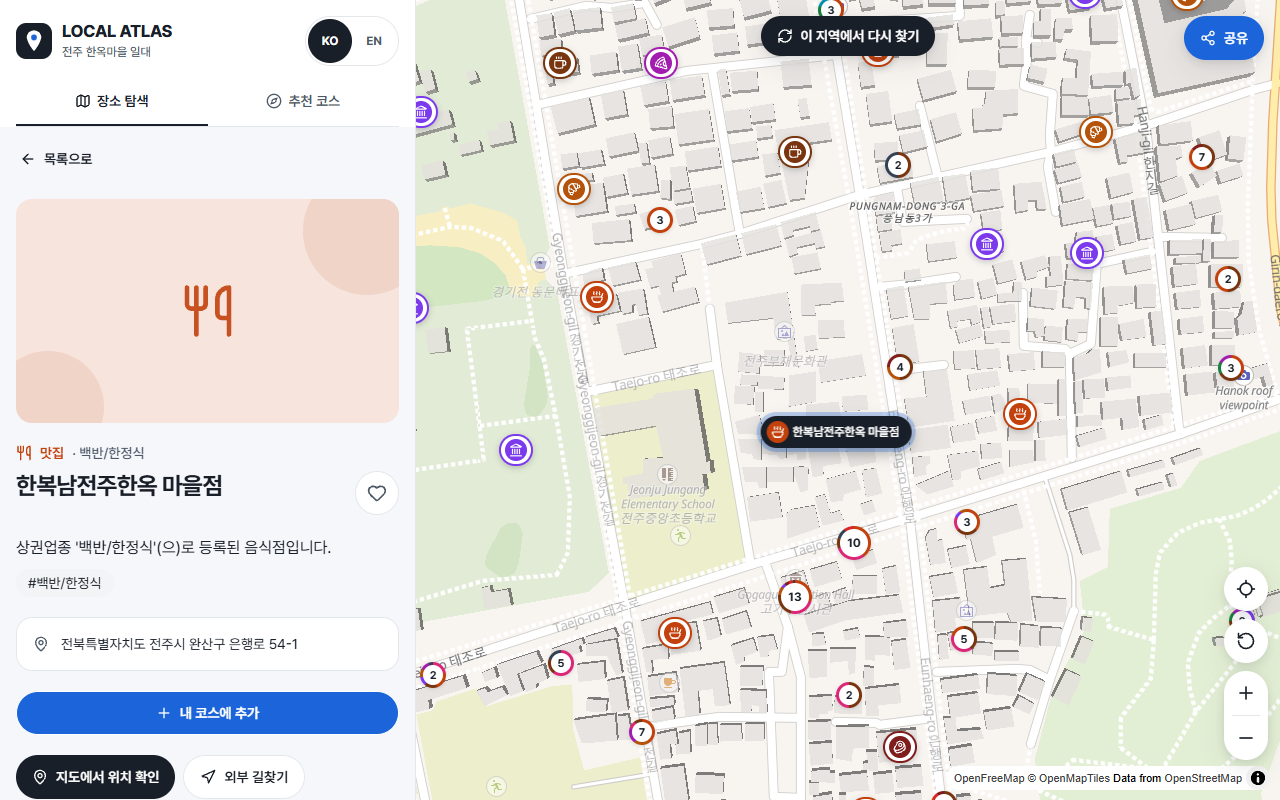
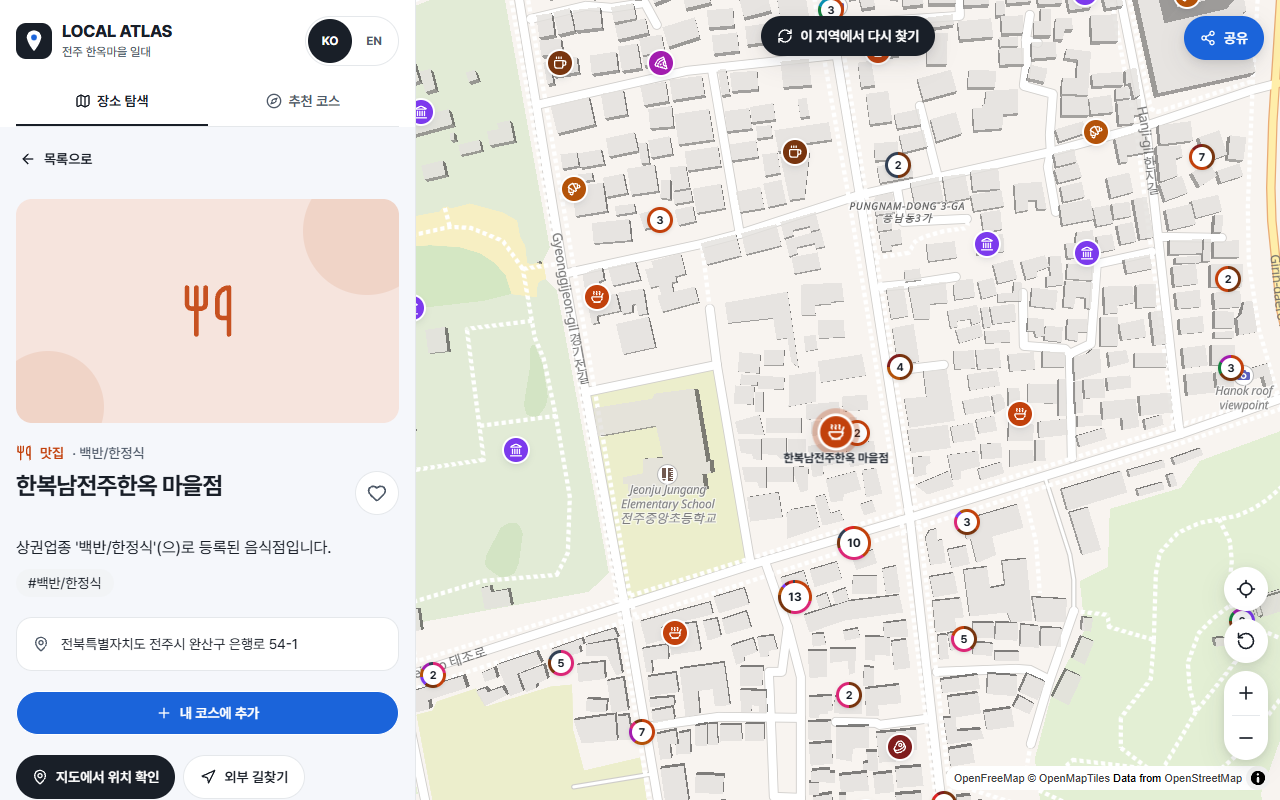
style: POI 핀을 단색 원형 배지로 다듬기
- 흰 알약+색 테두리 이중 구조 → 단색 원형 배지 + 흰 아이콘(stroke 2.25) + 2px 흰 테두리 + 2단 부드러운 그림자
- 이름 라벨은 배지 아래 흰 외곽선 글자로(지도를 덜 가리고, 라벨이 붙어도 핀 중심=좌표 유지)
- 호버는 탄성 있게 확대, 선택은 1.32배 + 같은 색 후광, 코스 번호 핀도 같은 스타일
- 터치 영역은 ::after 로 확장 유지

diff --git a/app/globals.css b/app/globals.css
@@ -95,50 +95,75 @@ body {
 }
 
 /* ── 지도 마커: 카테고리 아이콘 필 + 클러스터 ─────────────────────── */
+/*
+ * 핀: 단색 원형 배지 + 흰 아이콘 + 얇은 흰 테두리 + 부드러운 그림자 (지도 앱 스타일).
+ * 버튼의 중심이 좌표이고, 이름 라벨은 배지 아래에 흰 외곽선 글자로 떠 있어 지도를 덜 가립니다.
+ */
 .atlas-pin {
   position: relative;
-  display: inline-flex;
-  align-items: center;
-  gap: 0.25rem;
-  height: 2rem;
-  padding: 0 0.25rem;
-  border-radius: 9999px;
-  border: 2px solid var(--marker-color, #444);
-  background: #fff;
-  color: var(--color-ink);
-  box-shadow: 0 2px 6px rgba(25, 31, 40, 0.22);
+  display: grid;
+  place-items: center;
+  width: 1.75rem;
+  height: 1.75rem;
+  padding: 0;
+  border: 0;
+  background: transparent;
   cursor: pointer;
-  font: 600 0.75rem/1 var(--font-sans);
-  white-space: nowrap;
-  transition: transform 0.12s ease, box-shadow 0.12s ease;
+  font: 700 0.6875rem/1 var(--font-sans);
 }
-.atlas-pin::after { content: ""; position: absolute; inset: -6px; border-radius: 9999px; }
+.atlas-pin::after { content: ""; position: absolute; inset: -8px; border-radius: 9999px; } /* 터치 영역 확장 */
 .atlas-pin__icon {
   display: grid;
   place-items: center;
-  width: 1.375rem;
-  height: 1.375rem;
+  width: 1.5rem;
+  height: 1.5rem;
   border-radius: 9999px;
   background: var(--marker-color, #444);
   color: #fff;
   font-size: 0.75rem;
-  font-weight: 700;
+  font-weight: 800;
+  letter-spacing: -0.02em;
+  box-shadow: 0 0 0 2px #fff, 0 1px 2px rgba(15, 23, 42, 0.18), 0 3px 8px rgba(15, 23, 42, 0.16);
+  transition: transform 0.16s cubic-bezier(0.34, 1.56, 0.64, 1), box-shadow 0.16s ease;
 }
-.atlas-pin__label { display: none; max-width: 8.5rem; overflow: hidden; text-overflow: ellipsis; padding-right: 0.375rem; }
+.atlas-pin__icon svg { width: 0.875rem; height: 0.875rem; stroke-width: 2.25; }
+.atlas-pin__label {
+  display: none;
+  position: absolute;
+  top: calc(100% + 1px);
+  left: 50%;
+  transform: translateX(-50%);
+  max-width: 9rem;
+  overflow: hidden;
+  text-overflow: ellipsis;
+  white-space: nowrap;
+  color: var(--color-ink);
+  font-size: 0.6875rem;
+  font-weight: 700;
+  letter-spacing: -0.01em;
+  pointer-events: none;
+  text-shadow: 0 0 2px #fff, 0 0 2px #fff, 0 0 3px #fff, 0 0 4px #fff;
+}
 .atlas-map[data-labels="on"] .atlas-pin__label,
 .atlas-pin--selected .atlas-pin__label,
-.atlas-pin--numbered .atlas-pin__label { display: inline; }
-.atlas-pin:hover { transform: translateY(-2px); box-shadow: 0 4px 10px rgba(25, 31, 40, 0.28); z-index: 4; }
-.atlas-pin:focus-visible { outline: 3px solid var(--color-accent); outline-offset: 2px; }
-.atlas-pin--numbered .atlas-pin__icon { width: 1.5rem; height: 1.5rem; font-size: 0.8125rem; }
-.atlas-pin--selected {
-  z-index: 6;
-  background: var(--color-primary);
-  border-color: var(--color-primary);
-  color: #fff;
-  transform: translateY(-2px) scale(1.08);
-  box-shadow: 0 0 0 4px rgba(27, 100, 218, 0.28), 0 6px 14px rgba(25, 31, 40, 0.35);
+.atlas-pin--numbered .atlas-pin__label { display: block; }
+.atlas-pin:hover { z-index: 4; }
+.atlas-pin:hover .atlas-pin__icon { transform: scale(1.14); box-shadow: 0 0 0 2px #fff, 0 2px 4px rgba(15, 23, 42, 0.2), 0 6px 14px rgba(15, 23, 42, 0.22); }
+.atlas-pin:focus-visible { outline: none; }
+.atlas-pin:focus-visible .atlas-pin__icon { box-shadow: 0 0 0 2px #fff, 0 0 0 5px var(--color-accent); }
+.atlas-pin--numbered .atlas-pin__icon { width: 1.625rem; height: 1.625rem; font-size: 0.8125rem; box-shadow: 0 0 0 2.5px #fff, 0 2px 8px rgba(15, 23, 42, 0.25); }
+.atlas-pin--numbered .atlas-pin__label { font-size: 0.75rem; }
+/* 선택: 배지를 키우고 같은 색의 은은한 후광 */
+.atlas-pin--selected { z-index: 6; }
+.atlas-pin--selected .atlas-pin__icon,
+.atlas-pin--selected:hover .atlas-pin__icon {
+  transform: scale(1.32);
+  box-shadow:
+    0 0 0 2px #fff,
+    0 0 0 6px color-mix(in srgb, var(--marker-color, #444) 28%, transparent),
+    0 6px 16px rgba(15, 23, 42, 0.3);
 }
+.atlas-pin--selected .atlas-pin__label { top: calc(100% + 6px); font-size: 0.75rem; }
 /* 클러스터: 지도 글자를 가리지 않도록 밝고 가볍게. 개수에 따라 3단계 크기, 큰 묶음만 강조 */
 .atlas-cluster {
   display: grid;
